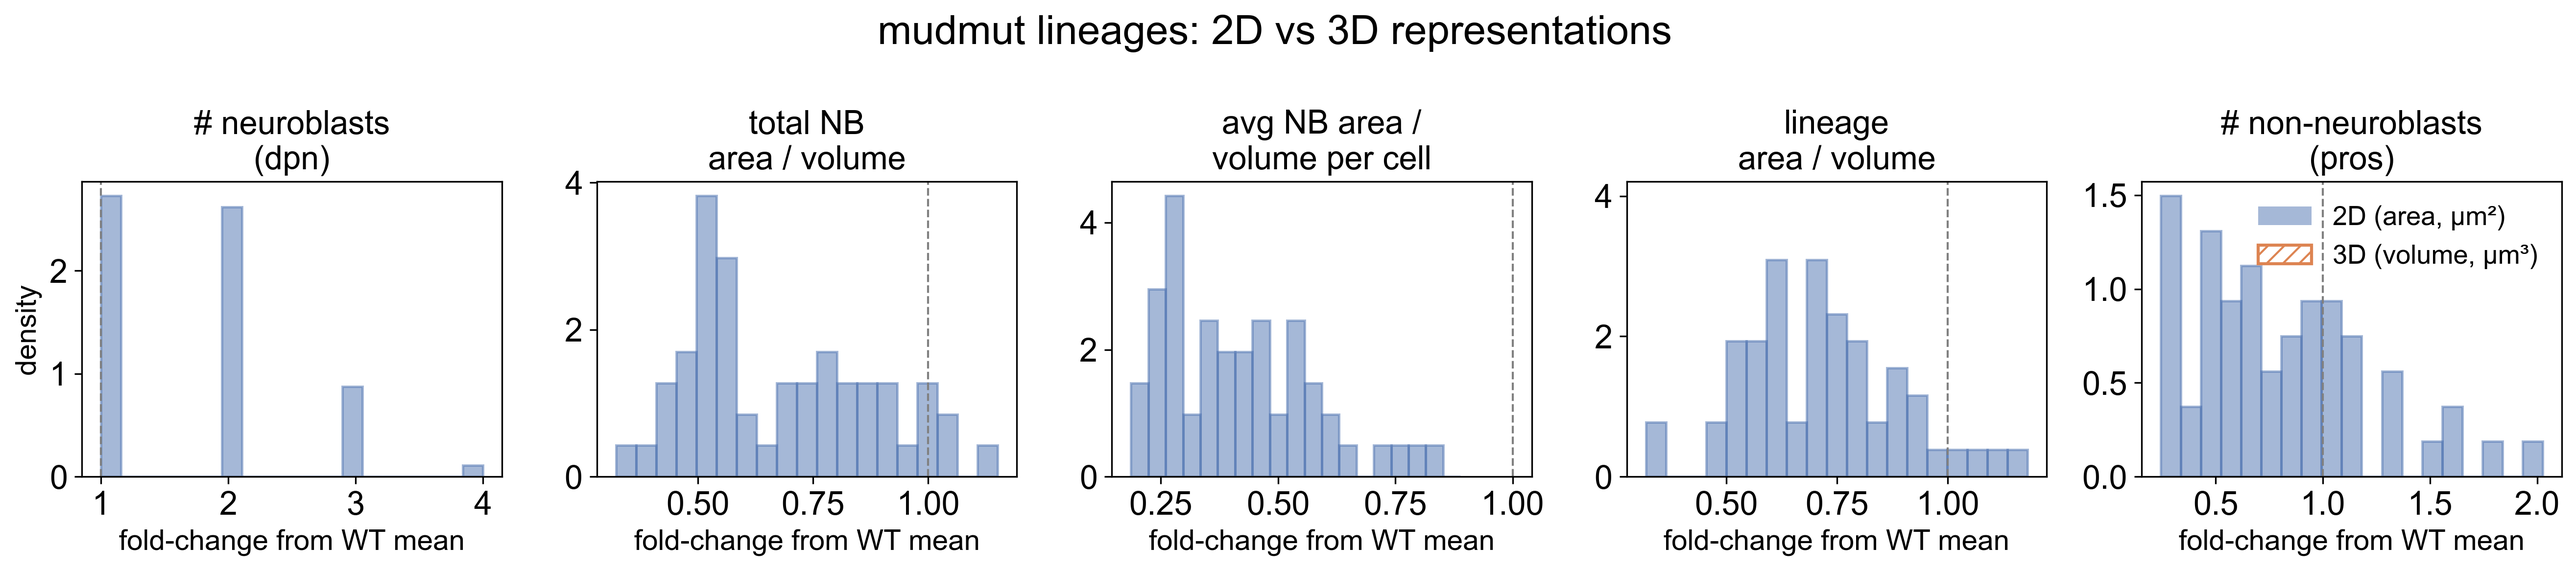
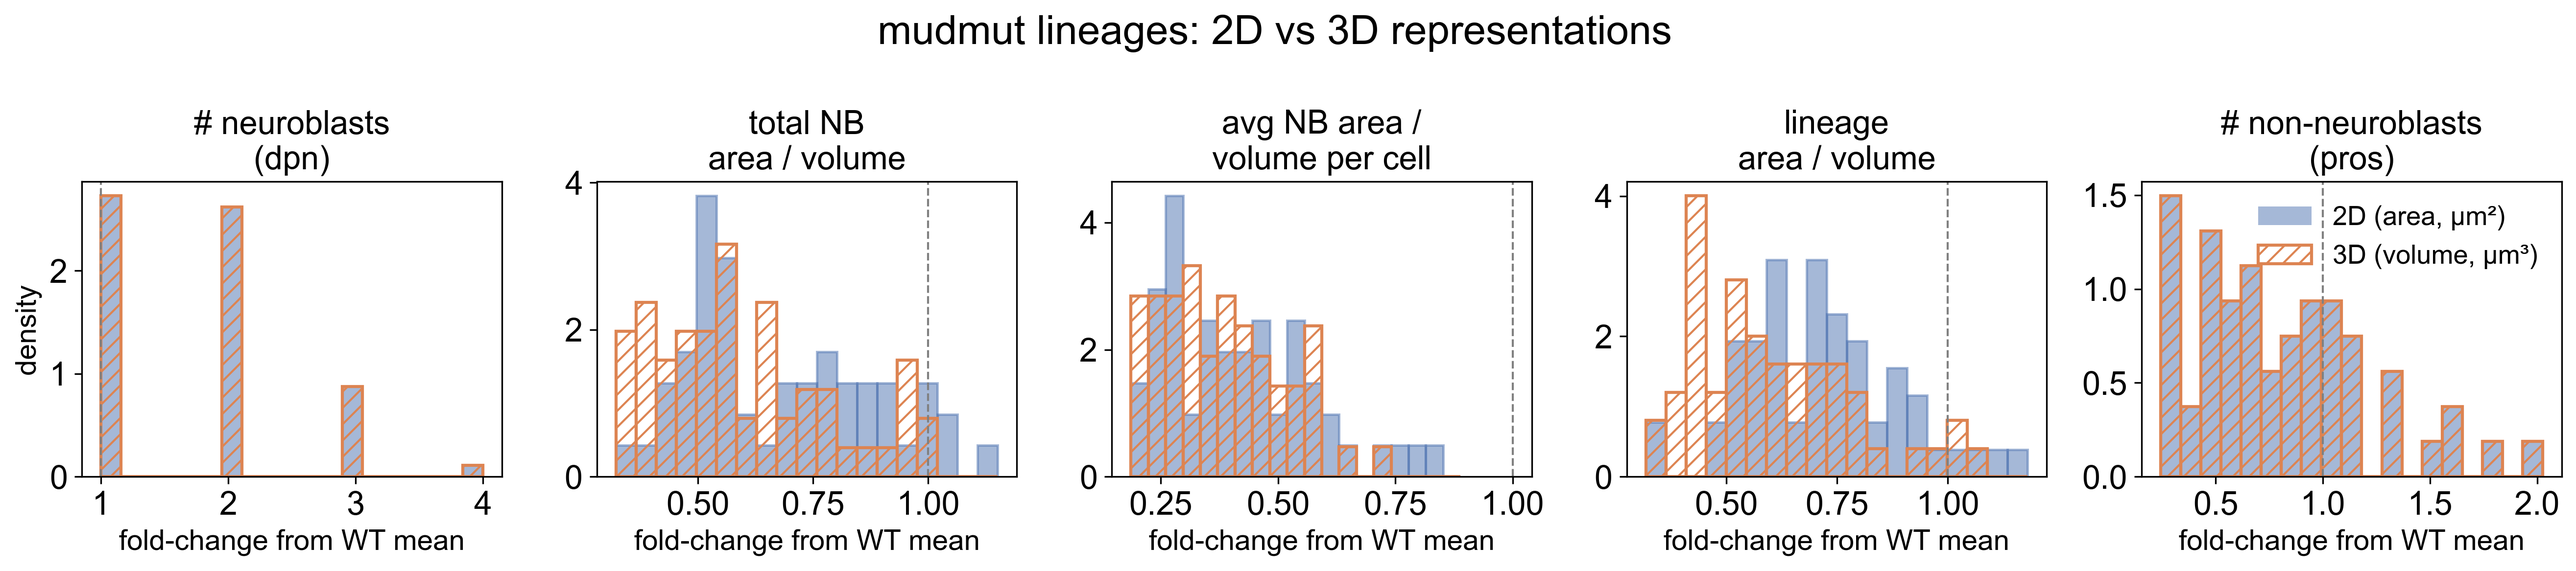
fix 3D histogram visibility (facecolor none)

diff --git a/scripts/make_supp_2d_vs_3d_metrics.py b/scripts/make_supp_2d_vs_3d_metrics.py
@@ -134,7 +134,7 @@ def make_genotype_histogram_panel(
 
         ax.hist(vals_2d, bins=bins, alpha=0.5, color=DIM2D_COLOR, edgecolor=DIM2D_COLOR,
                 linewidth=1.2, label="2D", density=True)
-        ax.hist(vals_3d, bins=bins, alpha=0.0, color=DIM3D_COLOR, edgecolor=DIM3D_COLOR,
+        ax.hist(vals_3d, bins=bins, facecolor="none", edgecolor=DIM3D_COLOR,
                 linewidth=1.5, hatch="///", label="3D", density=True)
 
         ax.axvline(1.0, color="gray", linestyle="--", linewidth=1.0)
